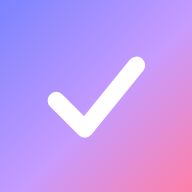
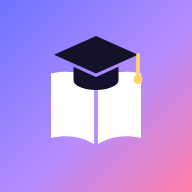
Add files via upload

Changed region(s): [[0.25, 0.1875, 0.7812, 0.7812]]

diff --git a/index.html b/index.html
@@ -574,6 +574,9 @@ body::after{width:380px;height:380px;right:-90px;bottom:-110px;background:color-
 .inst .acts{margin:10px 0}
 .inst-h{line-height:1.7;margin-top:6px}
 .inst-h b{color:var(--fg)}
+
+.logo.lg{background:none;overflow:hidden;width:38px;height:38px;border-radius:11px}
+.logo.lg svg{width:100%;height:100%;stroke:none;stroke-width:0;fill:none}
 </style>
 </head>
 <body>
@@ -581,7 +584,7 @@ body::after{width:380px;height:380px;right:-90px;bottom:-110px;background:color-
 
 <div class="app">
   <aside class="side">
-    <div class="brandbox"><span class="logo" aria-hidden="true"><svg viewBox="0 0 24 24"><path d="M5 12.5l4.5 4.5L19 7.5"/></svg></span><span class="bt"><span class="brand">Syllabus Tracker</span><span class="byline">Made by Azmain (DC-27)</span></span></div>
+    <div class="brandbox"><span class="logo lg" aria-hidden="true"><svg viewBox="0 0 512 512"><defs><linearGradient id="lgg" x1="0" y1="0" x2="1" y2="1"><stop offset="0" stop-color="#6d74ff"/><stop offset=".55" stop-color="#b48cff"/><stop offset="1" stop-color="#ff7fa8"/></linearGradient><linearGradient id="lg2" x1="0" y1="0" x2="1" y2="1"><stop offset="0" stop-color="#4f46e5"/><stop offset="1" stop-color="#c026d3"/></linearGradient><linearGradient id="gold" x1="0" y1="0" x2="1" y2="1"><stop offset="0" stop-color="#ffd36b"/><stop offset="1" stop-color="#ff9a6b"/></linearGradient></defs><rect width="512" height="512" fill="url(#lgg)"/><path d="M256 214c-34-22-78-28-120-18v172c42-10 86-4 120 20 34-24 78-30 120-20V196c-42-10-86-4-120 18z" fill="#fff"/><path d="M256 214v174" stroke="#b48cff" stroke-width="10" stroke-linecap="round"/><path d="M256 96l112 50-112 50-112-50z" fill="#14122b"/><path d="M196 178v36c0 14 26 26 60 26s60-12 60-26v-36l-60 27z" fill="#14122b"/><path d="M368 146v58" stroke="#ffd36b" stroke-width="10" stroke-linecap="round"/><circle cx="368" cy="212" r="12" fill="#ffd36b"/></svg></span><span class="bt"><span class="brand">Syllabus Tracker</span><span class="byline">Made by Azmain (DC-27)</span></span></div>
     <nav class="nav" id="nav" aria-label="Main"></nav>
     <button class="btn sidebtn" id="themeBtn" type="button">Light mode</button>
   </aside>
